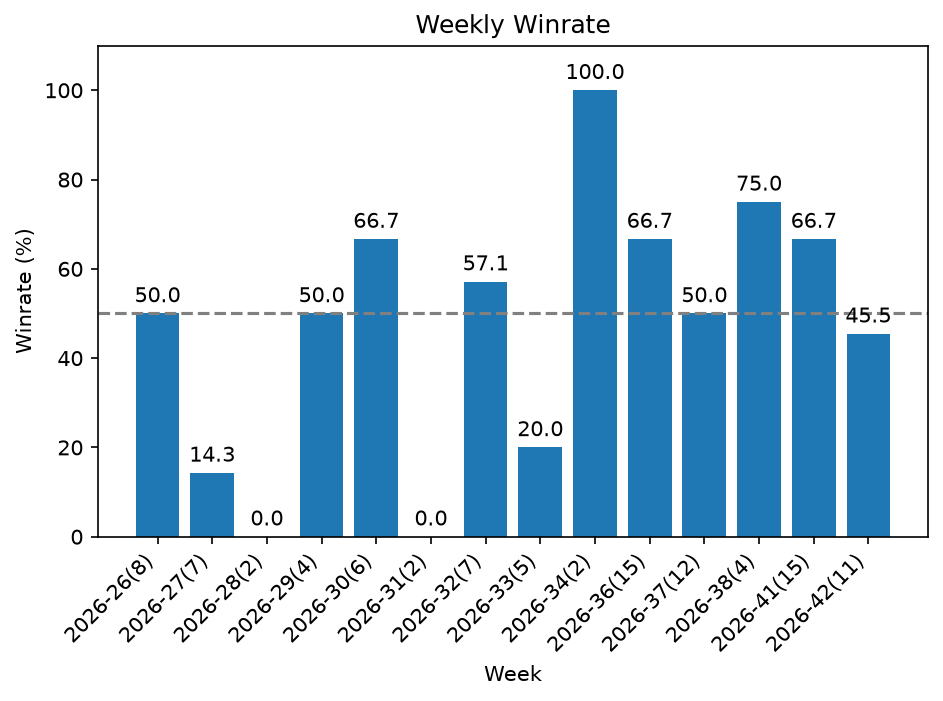
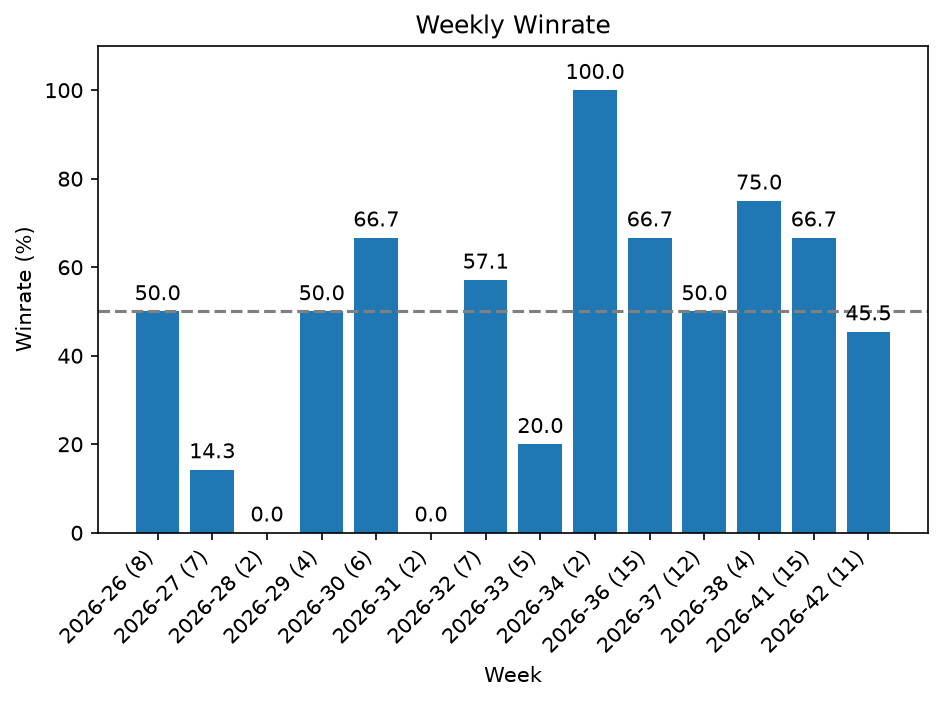
more fixed to charts

diff --git a/charts.py b/charts.py
@@ -6,14 +6,14 @@ def plot_hero_winrate(df):
 
     df = df.sort_values("winrate")
 
-    lable = df["hero"].astype(str) + "(" + df["games"].astype(str) + ")"
+    label = df["hero"].astype(str) + " (" + df["games"].astype(str) + ")"
 
-    ax.barh(lable, df.winrate)
-    ax.axvline(x=50)
+    ax.barh(label, df.winrate)
+    ax.axvline(x=50, color='gray', linestyle='--')
 
-    ax.set_title("Winrate by hero")
+    ax.set_title("Winrate by Hero (min 3 games)")
     ax.set_xlabel("Winrate(%)")
-    ax.set_ylabel("Hero(games)")
+    ax.set_ylabel("Hero (games)")
     ax.set_xlim(0, 100)
 
     plt.savefig('output/hero_winrate.png', dpi=150, bbox_inches='tight')
@@ -24,48 +24,7 @@ def plot_cumulative_wr(df, max_games=None):
     fig, ax = plt.subplots()
 
     ax.plot(df.games_so_far, df.cumulative_winrate)
-    ax.axhline(y=50)
-
-    ax.set_title("Cumulative Winrate")
-    ax.set_xlabel("Games")
-    ax.set_ylabel("Winrate(%)")
-
-    ax.set_xlim(1, max_games)
-    ax.set_ylim(0,100)
-
-    ax.xaxis.set_major_locator(MultipleLocator(1))
-
-    plt.savefig('output/cumulative_winrate.png', dpi=150, bbox_inches='tight')
-    # plt.show()
-    plt.close(fig)
-
-import matplotlib.pyplot as plt
-from matplotlib.ticker import MultipleLocator
-
-def plot_hero_winrate(df):
-    fig, ax = plt.subplots()
-
-    df = df.sort_values("winrate")
-
-    lable = df["hero"].astype(str) + "(" + df["games"].astype(str) + ")"
-
-    ax.barh(lable, df.winrate)
-    ax.axvline(x=50)
-
-    ax.set_title("Winrate by hero")
-    ax.set_xlabel("Winrate(%)")
-    ax.set_ylabel("Hero(games)")
-    ax.set_xlim(0, 100)
-
-    plt.savefig('output/hero_winrate.png', dpi=150, bbox_inches='tight')
-    # plt.show()
-    plt.close(fig)
-
-def plot_cumulative_wr(df, max_games=None):
-    fig, ax = plt.subplots()
-
-    ax.plot(df.games_so_far, df.cumulative_winrate)
-    ax.axhline(y=50)
+    ax.axhline(y=50, color='gray', linestyle='--')
 
     ax.set_title("Cumulative Winrate")
     ax.set_xlabel("Games")
@@ -79,6 +38,7 @@ def plot_cumulative_wr(df, max_games=None):
     plt.savefig('output/cumulative_winrate.png', dpi=150, bbox_inches='tight')
     # plt.show()
     plt.close(fig)
+
 
 def plot_kda(df, max_games=None):
     fig, ax = plt.subplots()
@@ -122,7 +82,7 @@ def plot_weekly(df):
 
     plt.tight_layout()
     plt.savefig('output/weekly.png', dpi=150, bbox_inches='tight')
-    plt.show()
+    # plt.show()
     plt.close(fig)
 
 def plot_side_winrate(df):
@@ -135,10 +95,10 @@ def plot_side_winrate(df):
     ax.set_ylabel("Winrate (%)")
 
     ax.set_ylim(0, 110)
-    ax.axhline(y=50)
+    ax.axhline(y=50, color='gray', linestyle='--')
 
 
-    ax.bar_label(bars, padding=3)
+    ax.bar_label(bars, padding=3, fmt='%.1f')
 
 
     plt.tight_layout()
